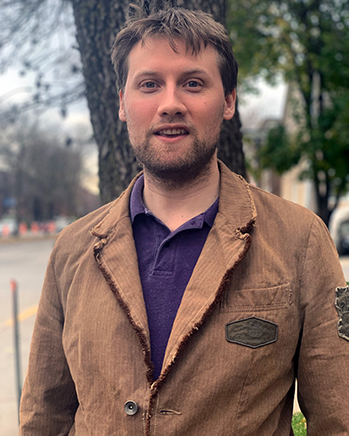
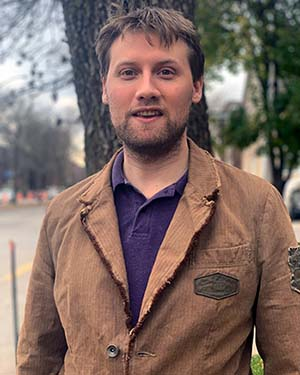
Photo size fix

diff --git a/aboutme.md b/aboutme.md
@@ -4,8 +4,8 @@ title: About me
 subtitle: Get to know me
 ---
 
-My name is Mark-James McDougall, and I'm a Developer from Montreal, Canada. I work as a Webmaster at <a href="https://mcgill.ca" target="_blank">McGill University</a> (BA'15) and have experience with a range of technologies including: <img src="/img/markjames-profile-photo.jpg" align="right" width="349" height="436" alt="Profile photo of Mark-James McDougall">
-
+<img src="/img/markjames-profile-photo.jpg" align="right" width="300" height="375" alt="Profile photo of Mark-James McDougall">
+My name is Mark-James McDougall, and I'm a Developer from Montreal, Canada. I work as a Webmaster at <a href="https://mcgill.ca" target="_blank">McGill University</a> (BA'15) and have experience with a range of technologies including:
 - Javascript (ES6, Nodejs), HTML, & CSS
 - Swift/SwiftUI (iOS, MacOS)
 - C# (Dotnet Core)
